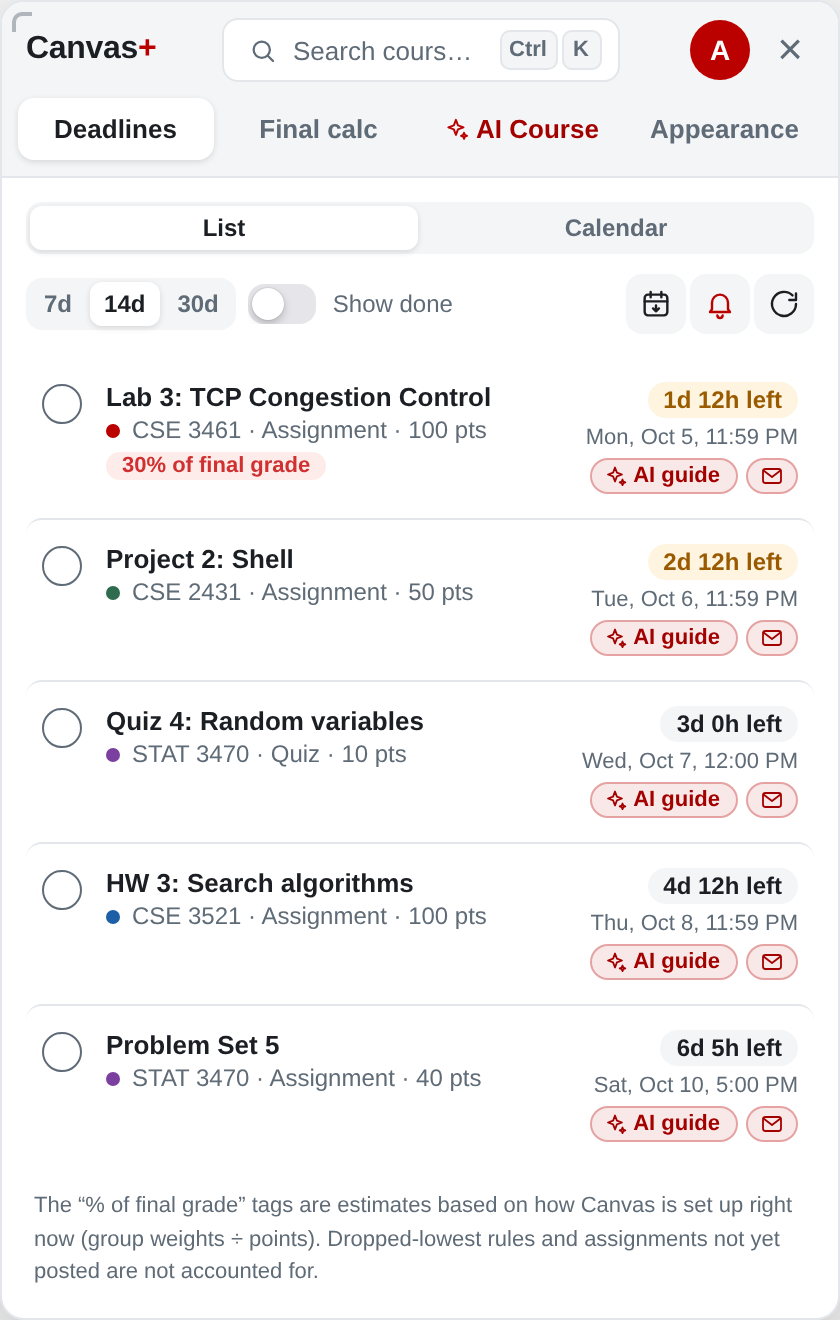
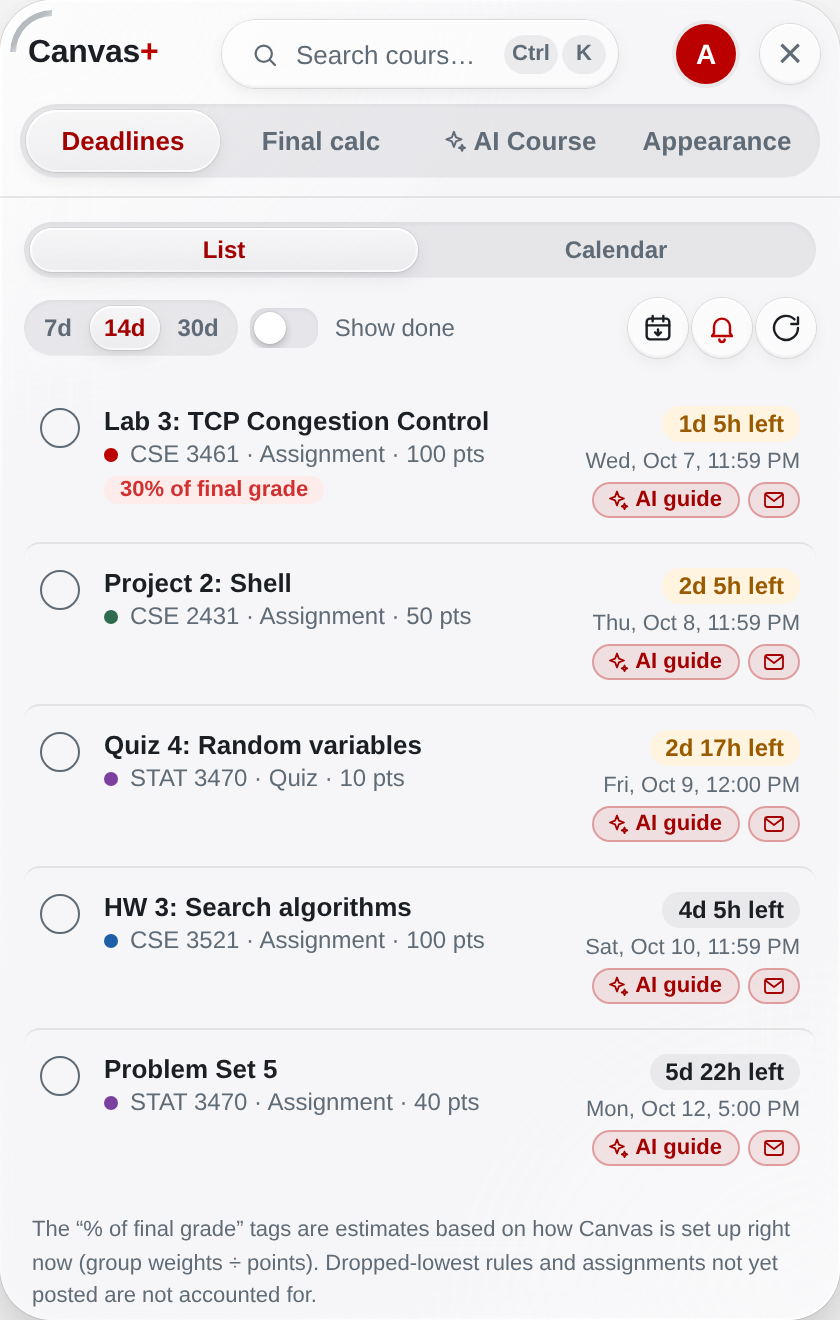
Update website and screenshots

diff --git a/site.js b/site.js
@@ -58,7 +58,7 @@
     { t: 'Project proposal', c: 'CSE 3521', k: ['Assignment', '作业'], p: 20, h: 215.6 },
     { t: 'Problem Set 5', c: 'STAT 3470', k: ['Assignment', '作业'], p: 40, h: 290 }
   ];
-  var done = {}, days = 14, showDone = false;
+  var done = {}, days = 14, showDone = false, view = 'list';
   function left(ms) {
     var over = ms < 0, s = Math.abs(ms) / 1000, d = Math.floor(s / 86400), h = Math.floor(s % 86400 / 3600), m = Math.floor(s % 3600 / 60);
     var v = d ? (zh() ? d + ' 天 ' + h + ' 小时' : d + 'd ' + h + 'h') : (zh() ? h + ' 小时 ' + m + ' 分' : h + 'h ' + m + 'm');
@@ -81,11 +81,20 @@
         '<div class="p-rt"><span class="p-cd ' + cls + '">' + left(ms) + '</span><span class="p-dt">' + when(start + x.h * 3600e3) + '</span>' +
         '<span class="p-acts"><button class="p-aig" data-act="ai">' + ic('spark') + L('AI guide', 'AI 拆解') + '</button><span class="p-mail">' + ic('mail') + '</span></span></div></div>';
     }).join('');
-    return '<div class="p-seg"><button class="on">' + L('List', '列表') + '</button><button>' + L('Calendar', '日历') + '</button></div>' +
+    var cal = '';
+    if (view === 'cal') {
+      var t0 = new Date(start); t0.setHours(0, 0, 0, 0); var first = new Date(t0.getTime() - t0.getDay() * 864e5);
+      cal = '<div class="p-calg">' + (zh() ? '日一二三四五六' : 'SMTWTFS').split('').map(function (d) { return '<b>' + d + '</b>'; }).join('') +
+        Array.from({ length: 28 }, function (_, k) {
+          var day = new Date(first.getTime() + k * 864e5), hit = DL.filter(function (x) { var due = new Date(start + x.h * 3600e3); return due.toDateString() === day.toDateString(); })[0];
+          return '<span class="p-cd2' + (day.toDateString() === t0.toDateString() ? ' today' : '') + '">' + day.getDate() + (hit ? '<i style="background:' + col(hit.c) + '"></i>' : '') + '</span>';
+        }).join('') + '</div>';
+    }
+    return '<div class="p-seg"><button data-act="view" data-v="list" class="' + (view === 'list' ? 'on' : '') + '">' + L('List', '列表') + '</button><button data-act="view" data-v="cal" class="' + (view === 'cal' ? 'on' : '') + '">' + L('Calendar', '日历') + '</button></div>' +
       '<div class="p-filters"><div class="p-seg">' + [7, 14, 30].map(function (d) { return '<button data-act="days" data-d="' + d + '" class="' + (d === days ? 'on' : '') + '">' + d + L('d', ' 天') + '</button>'; }).join('') + '</div>' +
       '<span class="p-tog" data-act="showdone"><button class="p-sw' + (showDone ? ' on' : '') + '" aria-label="show done"></button>' + L('Show done', '显示已完成') + '</span>' +
       '<span class="p-ib"><span>' + ic('cal') + '</span><span>' + ic('bell') + '</span><span>' + ic('refresh') + '</span></span></div>' +
-      '<div class="p-list">' + rows + '</div>';
+      (view === 'cal' ? cal : '<div class="p-list">' + rows + '</div>');
   }
 
   // ---- Final calc: grade, class standing, what you need on the final ----
@@ -145,7 +154,7 @@
   var aiShown = 0, aiTimer = null;
   function paneAI() {
     var g = G[zh() ? 'zh' : 'en'];
-    return '<div class="p-back"><a data-act="back">' + ic('back', 2.4) + L('Back', '返回') + '</a><span class="p-badge">' + ic('spark') + L('Canvas+ AI guide', 'Canvas+ AI 拆解') + '</span></div>' +
+    return '<div class="p-back"><a data-act="back" aria-label="' + L('Back', '返回') + '" title="' + L('Back', '返回') + '">' + ic('back', 2.6) + '</a><span class="p-badge">' + ic('spark') + L('Canvas+ AI guide', 'Canvas+ AI 拆解') + '</span></div>' +
       '<p class="p-h">Lab 2: Shell implementation</p><div class="p-st-sub">CSE 2431 · ' + L('due in 5 h · 10% of your grade', '5 小时后截止 · 占总成绩 10%') + '</div>' +
       '<div class="p-tldr">' + g.tldr + '</div>' +
       '<div class="p-st-sub">' + L('Estimated time: ', '预计用时：') + '<b style="color:var(--p-fg)">' + g.time + '</b></div>' +
@@ -156,7 +165,7 @@
       '<div class="p-fine">' + L('Explains the steps — never writes the answer for you.', '只讲思路和步骤，不替你写答案。') + '</div>';
   }
   function runAI() {
-    clearTimeout(aiTimer); aiShown = 0; draw();
+    clearTimeout(aiTimer); aiShown = 0; redrawPane(2);   // only the AI pane: a full redraw would cut the tab pill's spring short
     (function next() { if (aiShown >= 5) return; aiShown++; var s = $$('.p-step', dm)[aiShown - 1]; if (s) s.classList.add('in'); aiTimer = setTimeout(next, reduce ? 0 : 600); })();
   }
 
@@ -193,11 +202,17 @@
     ind.style.width = b.offsetWidth + 'px'; ind.style.transform = 'translateX(' + b.offsetLeft + 'px)';
     if (instant) { ind.offsetWidth; ind.style.transition = ''; }
   }
-  function show(i) {
+  // Switching tabs: the pill lifts for a moment and springs onto the new tab (like the extension since 1.3).
+  function show(i, fromDrag) {
     var prev = cur; cur = i;
-    var b = $$('.p-tab', dm), p = $$('.p-pane', dm);
+    var b = $$('.p-tab', dm), p = $$('.p-pane', dm), ind = $('.p-ind', dm);
     b.forEach(function (x, k) { x.classList.toggle('on', k === i); }); p.forEach(function (x, k) { x.classList.toggle('on', k === i); });
-    placeInd();
+    if (ind && !reduce && (prev !== i || fromDrag)) {
+      ind.style.transition = ''; ind.classList.add('lift', 'landing'); ind.offsetWidth;
+      placeInd();
+      setTimeout(function () { ind.classList.remove('lift'); }, fromDrag ? 16 : 150);   // a tap: lifted for a moment, then lands with a bounce
+      clearTimeout(ind._lt); ind._lt = setTimeout(function () { ind.classList.remove('landing'); }, 600);
+    } else placeInd();
     if (i === 2 && prev !== 2) runAI();
   }
   // Only the panes that change are redrawn (keeps the sliding tab and fades smooth).
@@ -209,6 +224,7 @@
     var a = t.dataset.act;
     if (a === 'ck') { done[t.dataset.i] = !done[t.dataset.i]; redrawPane(0); }
     else if (a === 'days') { days = +t.dataset.d; redrawPane(0); }
+    else if (a === 'view') { view = t.dataset.v; redrawPane(0); }
     else if (a === 'showdone') { showDone = !showDone; redrawPane(0); }
     else if (a === 'ai') show(2);
     else if (a === 'back') show(0);
@@ -219,8 +235,119 @@
     else if (a === 'pal') { pal = +t.dataset.k; redrawPane(3); redrawPane(0); redrawPane(1); }
   });
   dm.addEventListener('pointerdown', function () { touched = true; });
+
+  // ---- press and drag the tab bar or a switcher: a clear glass lens follows the pointer ----
+  // Characters under the lens are red, the rest grey; let go and it springs onto the nearest option.
+  var drag = null, landUntil = 0;
+  function chars(el) {
+    if (el._ch) return el._ch;
+    var out = [];
+    (function walk(n) {
+      [].slice.call(n.childNodes).forEach(function (c) {
+        if (c.nodeType === 3) {
+          if (!c.nodeValue.trim()) return;
+          var w = document.createElement('span'); w.className = 'lw';
+          Array.from(c.nodeValue).forEach(function (ch) {
+            if (/\s/.test(ch)) { w.appendChild(document.createTextNode(ch)); return; }
+            var sp = document.createElement('span'); sp.className = 'lc'; sp.textContent = ch; w.appendChild(sp); out.push(sp);
+          });
+          c.parentNode.replaceChild(w, c);
+        } else if (c.nodeType === 1 && c.tagName.toLowerCase() !== 'svg' && !c.classList.contains('rd')) walk(c);
+      });
+    })(el);
+    el._ch = out; el._ic = [].slice.call(el.querySelectorAll('svg'));
+    return out;
+  }
+  function paint(lens, items) {
+    var r = lens.getBoundingClientRect();
+    var inside = function (n) { var b = n.getBoundingClientRect(), m = b.left + b.width / 2; return m >= r.left && m <= r.right; };
+    items.forEach(function (el) {
+      chars(el).forEach(function (c) { c.classList.toggle('in', inside(c)); });
+      el._ic.forEach(function (s) { s.classList.toggle('in', inside(s)); });
+    });
+  }
+  // A switcher option springs from where the pill was to the new one (the pane is redrawn, so a lens is drawn on top).
+  function landSeg(act, val, from) {
+    if (reduce) return;
+    var btn = dm.querySelector('[data-act="' + act + '"][data-' + (act === 'days' ? 'd' : 'v') + '="' + val + '"]'); if (!btn) return;
+    var bar = btn.parentNode, lens = document.createElement('span');
+    lens.className = 'p-lens landing';
+    lens.style.cssText = 'top:' + btn.offsetTop + 'px;height:' + btn.offsetHeight + 'px;width:' + btn.offsetWidth + 'px;transform:translateX(' + btn.offsetLeft + 'px)';
+    bar.appendChild(lens); bar.classList.add('landing');
+    landUntil = Date.now() + 560;
+    var end = function () { lens.remove(); bar.classList.remove('landing'); };
+    try {
+      lens.animate([{ transform: 'translateX(' + from.x + 'px)', width: from.w + 'px', scale: '1.1 1.28' }, { transform: 'translateX(' + btn.offsetLeft + 'px)', width: btn.offsetWidth + 'px', scale: '1' }],
+        { duration: 520, easing: 'cubic-bezier(.34,1.45,.64,1)' }).onfinish = end;
+    } catch (e) { end(); }
+  }
+  dm.addEventListener('pointerdown', function (e) {
+    if (e.button !== 0 || drag) return;
+    var bar = e.target.closest('.p-tabs, .p-seg'); if (!bar) return;
+    var isTabs = bar.classList.contains('p-tabs');
+    var items = $$(isTabs ? '.p-tab' : 'button', bar);
+    if (!isTabs && !items.every(function (b) { return b.dataset.act; })) return;
+    var on = items.filter(function (b) { return b.classList.contains('on'); })[0]; if (!on) return;
+    var bx = bar.getBoundingClientRect().left + bar.clientLeft, px = e.clientX - bx, ox = on.offsetLeft, w = on.offsetWidth;
+    var d = drag = { active: false, x: ox, grab: px >= ox && px <= ox + w ? px - ox : w / 2, best: null, pressed: e.target.closest('button') };
+    var move = function (ev) {
+      if (drag !== d) return;
+      if (!d.active) {
+        if (Math.abs(ev.clientX - e.clientX) < 5) return;
+        d.active = true;
+        try { bar.setPointerCapture(e.pointerId); } catch (er) {}
+        bar.classList.add('dragging');
+        if (isTabs) { d.lens = $('.p-ind', dm); d.lens.classList.remove('landing'); }
+        else {
+          d.lens = document.createElement('span'); d.lens.className = 'p-lens';
+          d.lens.style.cssText = 'top:' + on.offsetTop + 'px;height:' + on.offsetHeight + 'px;width:' + w + 'px;transform:translateX(' + ox + 'px)';
+          bar.appendChild(d.lens);
+        }
+        d.lens.style.transition = 'scale .32s cubic-bezier(.34,1.56,.64,1), background .2s';
+        d.lens.offsetWidth; d.lens.classList.add('lift');
+      }
+      ev.preventDefault();
+      var a = items[0], z = items[items.length - 1], min = a.offsetLeft, max = z.offsetLeft + z.offsetWidth - w;
+      var x = ev.clientX - bx - d.grab;
+      if (x < min) x = min - Math.sqrt(min - x) * 2; else if (x > max) x = max + Math.sqrt(x - max) * 2;
+      d.x = x; d.lens.style.transform = 'translateX(' + x + 'px)'; d.lens.style.width = w + 'px';
+      var c = x + w / 2, bd = 1e9;
+      items.forEach(function (b) {
+        var dist = Math.abs(b.offsetLeft + b.offsetWidth / 2 - c), k = Math.max(0, 1 - dist / (b.offsetWidth * .9));
+        b.style.scale = String(1 + (isTabs ? .1 : .08) * k);
+        if (dist < bd) { bd = dist; d.best = b; }
+      });
+      paint(d.lens, items);
+    };
+    var up = function () {
+      bar.removeEventListener('pointermove', move); bar.removeEventListener('pointerup', up); bar.removeEventListener('pointercancel', up); bar.removeEventListener('lostpointercapture', up);
+      if (drag !== d) return;
+      drag = null;
+      if (!d.active) {                       // a plain click on another option: it springs over after the click
+        var p = d.pressed;
+        if (!isTabs && p && p !== on && items.indexOf(p) >= 0) setTimeout(function () { landSeg(p.dataset.act, p.dataset.d || p.dataset.v, { x: ox, w: w }); }, 0);
+        return;
+      }
+      bar.classList.remove('dragging');
+      items.forEach(function (b) { b.style.scale = ''; (b._ch || []).forEach(function (c) { c.classList.remove('in'); }); (b._ic || []).forEach(function (s) { s.classList.remove('in'); }); });
+      var eat = function (ev) { ev.stopPropagation(); ev.preventDefault(); };
+      bar.addEventListener('click', eat, true);
+      var target = d.best || on;
+      setTimeout(function () {
+        bar.removeEventListener('click', eat, true);
+        if (isTabs) { touched = true; show(items.indexOf(target), true); }
+        else {
+          d.lens.remove();
+          var act = target.dataset.act, val = target.dataset.d || target.dataset.v;
+          if (target !== on) target.click(); else redrawPane(0);
+          landSeg(act, val, { x: d.x, w: w });
+        }
+      }, 0);
+    };
+    bar.addEventListener('pointermove', move); bar.addEventListener('pointerup', up); bar.addEventListener('pointercancel', up); bar.addEventListener('lostpointercapture', up);
+  });
   if ('ResizeObserver' in window) new ResizeObserver(function () { placeInd(true); }).observe(dm);
-  setInterval(function () { if (cur === 0) redrawPane(0); }, 1000);
+  setInterval(function () { if (cur === 0 && !drag && Date.now() > landUntil) redrawPane(0); }, 1000);
   if (!reduce) setInterval(function () { if (!touched && document.visibilityState === 'visible') show((cur + 1) % 4); }, 5600);
 
   // Notification toasts

diff --git a/index.html b/index.html
@@ -252,6 +252,84 @@
   .hint { margin-top: 18px; justify-content: center; font-size: 12px; color: var(--dim); white-space: nowrap; display: flex; gap: 6px; align-items: center; }
   .hint svg { width: 14px; height: 14px; }
 
+  /* ===== Liquid glass, like the Canvas+ panel since 1.3 ===== */
+  .demo { --g-ctl: rgba(255,255,255,.55); --g-on: rgba(255,255,255,.94); --g-track: rgba(118,118,128,.12); --g-rim: rgba(255,255,255,.95); --g-hair: rgba(0,0,0,.1); --g-low: rgba(0,0,0,.05);
+    --p-bg2: rgba(118,118,128,.1); --p-line: rgba(60,60,67,.11);
+    border-radius: 26px; background: rgba(248,249,252,.9); -webkit-backdrop-filter: blur(30px) saturate(1.8); backdrop-filter: blur(30px) saturate(1.8);
+    box-shadow: 0 40px 100px -20px var(--sh), 0 0 0 .5px var(--g-hair), inset 0 1px .5px rgba(255,255,255,.9), inset 0 0 22px rgba(255,255,255,.2); }
+  .demo.dark { --g-ctl: rgba(255,255,255,.08); --g-on: rgba(255,255,255,.2); --g-track: rgba(255,255,255,.07); --g-rim: rgba(255,255,255,.28); --g-hair: rgba(0,0,0,.45); --g-low: rgba(0,0,0,.25);
+    --p-bg2: rgba(255,255,255,.07); --p-line: rgba(255,255,255,.08); background: rgba(30,32,38,.9);
+    box-shadow: 0 40px 100px -20px var(--sh), 0 0 0 .5px rgba(255,255,255,.12), inset 0 1px .5px rgba(255,255,255,.12), inset 0 0 22px rgba(255,255,255,.04); }
+  .p-head { background: transparent; border-bottom: .5px solid var(--p-line); padding: 12px 12px 9px; }
+  .p-search { border: 0; border-radius: 999px; background: var(--g-ctl); padding: 7px 8px 7px 12px;
+    box-shadow: inset 0 1px .5px var(--g-rim), inset 0 -1px 1px var(--g-low), 0 0 0 .5px var(--g-hair), 0 2px 8px rgba(0,0,0,.06); }
+  .p-kbd i { border: 0; border-radius: 999px; padding: 3px 5px; background: var(--g-track); }
+  .p-x { width: 28px; height: 28px; border-radius: 999px; display: grid; place-items: center; padding: 0; font-size: 17px; background: var(--g-ctl);
+    box-shadow: inset 0 1px .5px var(--g-rim), inset 0 -1px 1px var(--g-low), 0 0 0 .5px var(--g-hair), 0 2px 8px rgba(0,0,0,.06); }
+  .p-tabs, .p-seg { background: var(--g-track); border-radius: 999px; padding: 3px; gap: 2px; box-shadow: inset 0 1px 2px var(--g-low); touch-action: pan-y; user-select: none; -webkit-user-select: none; }
+  .p-tabs { margin-top: 10px; }
+  .p-seg { position: relative; }
+  .p-ind { top: 3px; bottom: 3px; border-radius: 999px; background: var(--g-on);
+    box-shadow: inset 0 1px .5px var(--g-rim), inset 0 -1px 1px var(--g-low), 0 0 0 .5px var(--g-hair), 0 3px 10px rgba(0,0,0,.1);
+    transition: transform .3s var(--ease), width .3s var(--ease), scale .3s var(--ease), background .35s; }
+  .p-tab, .p-seg button { position: relative; z-index: 1; border-radius: 999px; transition: scale .18s var(--ease), color .18s; }
+  .p-seg button.on { background: var(--g-on); box-shadow: inset 0 1px .5px var(--g-rim), 0 0 0 .5px var(--g-hair), 0 2px 6px rgba(0,0,0,.09); }
+  /* only the current option is red (the AI tab no longer is, unless it's open) */
+  .p-tab.ai { color: var(--p-muted) !important; }
+  .p-tab.on, .p-tab.ai.on, .p-seg button.on { color: var(--p-acc) !important; }
+  /* the drag lens: press and slide, the pill lifts into clear glass and follows the pointer */
+  .p-lens { position: absolute; left: 0; z-index: 2; pointer-events: none; border-radius: 999px; background: var(--g-on);
+    box-shadow: inset 0 1px .5px var(--g-rim), 0 0 0 .5px var(--g-hair), 0 2px 6px rgba(0,0,0,.09); }
+  .p-lens.landing:not(.lift) { z-index: 0; }
+  .p-seg.landing button.on, .p-seg.dragging button.on { background: transparent; box-shadow: none; }
+  .p-ind.lift, .p-lens.lift { z-index: 2; background: rgba(255,255,255,.16) !important;
+    box-shadow: inset 0 0 0 1px rgba(255,255,255,.9), inset 0 1.5px 5px rgba(255,255,255,.65), inset 0 -2px 6px rgba(0,0,0,.05), 0 8px 22px rgba(0,0,0,.14), 0 1px 4px rgba(0,0,0,.08) !important; }
+  .p-ind.lift { scale: 1.12 1.32; }
+  .p-lens.lift { scale: 1.1 1.28; }
+  .demo.dark .p-ind.lift, .demo.dark .p-lens.lift { background: rgba(255,255,255,.08) !important;
+    box-shadow: inset 0 0 0 1px rgba(255,255,255,.35), inset 0 1.5px 5px rgba(255,255,255,.14), 0 8px 22px rgba(0,0,0,.45) !important; }
+  .p-ind.landing { transition: transform .45s cubic-bezier(.34,1.45,.64,1), width .45s cubic-bezier(.34,1.45,.64,1), scale .4s cubic-bezier(.34,1.56,.64,1), background .2s; }
+  .dragging, .dragging button { cursor: grabbing !important; }
+  .p-tabs.dragging .p-tab, .p-seg.dragging button { color: var(--p-muted) !important; transition: none !important; }
+  .p-tabs.dragging .lc.in, .p-seg.dragging .lc.in, .p-tabs.dragging svg.in { color: var(--p-acc) !important; }
+  .lw { display: inline; }
+  /* round glass buttons */
+  .p-ib span { border: 0; border-radius: 999px; background: var(--g-ctl);
+    box-shadow: inset 0 1px .5px var(--g-rim), inset 0 -1px 1px var(--g-low), 0 0 0 .5px var(--g-hair), 0 2px 8px rgba(0,0,0,.06); }
+  .p-back { margin-bottom: 10px; }
+  .p-back a { width: 32px; height: 32px; border-radius: 999px; justify-content: center; gap: 0; color: var(--p-acc);
+    background: linear-gradient(180deg, rgba(255,255,255,.98), rgba(244,244,248,.92));
+    box-shadow: inset 0 1px .5px #fff, inset 0 -1px 1px rgba(0,0,0,.04), 0 0 0 .5px rgba(0,0,0,.14), 0 2px 8px rgba(0,0,0,.07); transition: scale .2s cubic-bezier(.34,1.56,.64,1); }
+  .p-back a:active { scale: .92; }
+  .p-back a svg { width: 18px; height: 18px; margin-left: -1px; }
+  .demo.dark .p-back a { background: linear-gradient(180deg, rgba(255,255,255,.14), rgba(255,255,255,.07));
+    box-shadow: inset 0 1px .5px rgba(255,255,255,.22), inset 0 -1px 1px rgba(0,0,0,.2), 0 0 0 .5px rgba(255,255,255,.12), 0 2px 8px rgba(0,0,0,.3); }
+  .p-sw { background: rgba(120,120,128,.24); }
+  .p-sw.on { background: #34c759; }
+  .p-card, .p-group { border: 0; background: var(--p-bg2); }
+  .p-step, .p-cs, .p-tile { background: var(--p-bg2); }
+  .p-need { background: rgba(250,250,252,.9); border-top: .5px solid var(--p-line); }
+  .demo.dark .p-need { background: rgba(34,36,42,.94); }
+  .p-it { border-bottom: .5px solid var(--p-line); }
+  /* calendar view (List / Calendar switch) */
+  .p-calg { display: grid; grid-template-columns: repeat(7, 1fr); gap: 4px; margin-top: 10px; }
+  .p-calg b { font-size: 10.5px; color: var(--p-muted); text-align: center; font-weight: 700; }
+  .p-cd2 { position: relative; height: 44px; border-radius: 10px; background: var(--p-bg2); font-size: 11px; font-weight: 700; padding: 4px 5px; color: var(--p-fg); }
+  .p-cd2.today { box-shadow: inset 0 0 0 1.5px var(--p-acc); color: var(--p-acc); }
+  .p-cd2 i { position: absolute; left: 5px; right: 5px; bottom: 5px; height: 4px; border-radius: 99px; }
+  /* current option: see-through glass capsule with a fine highlight around the edge */
+  .demo { --pill: linear-gradient(180deg, rgba(255,255,255,.6), rgba(255,255,255,.24));
+    --pill-shadow: inset 0 1px 0 rgba(255,255,255,.95), inset 0 -1px 0 rgba(255,255,255,.3), 0 0 0 .5px rgba(0,0,0,.07), 0 1px 2px rgba(0,0,0,.05), 0 3px 10px rgba(0,0,0,.07);
+    --pill-rim: linear-gradient(160deg, rgba(255,255,255,1), rgba(255,255,255,.25) 35%, rgba(255,255,255,.08) 60%, rgba(255,255,255,.75)); }
+  .demo.dark { --pill: linear-gradient(180deg, rgba(255,255,255,.2), rgba(255,255,255,.08));
+    --pill-shadow: inset 0 1px 0 rgba(255,255,255,.3), inset 0 -1px 0 rgba(255,255,255,.06), 0 0 0 .5px rgba(0,0,0,.45), 0 3px 10px rgba(0,0,0,.28);
+    --pill-rim: linear-gradient(160deg, rgba(255,255,255,.55), rgba(255,255,255,.1) 35%, rgba(255,255,255,.03) 60%, rgba(255,255,255,.3)); }
+  .p-ind, .p-seg button.on, .p-lens { background: var(--pill); box-shadow: var(--pill-shadow); }
+  .p-ind::after, .p-seg button.on::after, .p-lens::after { content: ""; position: absolute; inset: 0; border-radius: inherit; padding: 1px; pointer-events: none; background: var(--pill-rim);
+    -webkit-mask: linear-gradient(#000 0 0) content-box, linear-gradient(#000 0 0); -webkit-mask-composite: xor; mask: linear-gradient(#000 0 0) content-box exclude, linear-gradient(#000 0 0); }
+  .p-seg.landing button.on::after, .p-seg.dragging button.on::after { display: none; }
+  @media (prefers-reduced-motion: reduce) { .p-ind.lift, .p-lens.lift { scale: 1; } .p-ind.landing { transition: none; } }
+
 
   /* schools */
   .schools { padding: 8px 0 34px; text-align: center; }
@@ -361,7 +439,7 @@
   .scard ul { list-style: none; margin: 0; padding: 0; display: grid; gap: 10px; font-size: 14.5px; color: var(--fg); }
   .scard li { display: flex; gap: 10px; }
   .scard li span:first-child { flex: none; width: 20px; height: 20px; border-radius: 6px; display: grid; place-items: center; font-weight: 800; color: var(--c); background: color-mix(in srgb, var(--c) 14%, transparent); }
-  .scard-shot { align-self: end; height: 470px; border-radius: 18px 18px 0 0; overflow: hidden; box-shadow: 0 -10px 40px -10px var(--sh), 0 0 0 1px rgba(var(--tint),.1); }
+  .scard-shot { align-self: end; height: 470px; border-radius: 26px 26px 0 0; overflow: hidden; box-shadow: 0 -10px 40px -10px var(--sh), 0 0 0 1px rgba(var(--tint),.1); }
   .scard-shot img { display: block; width: 100%; height: 100%; object-fit: cover; object-position: top; }
   .rules { margin-top: 26px; font-size: 13.5px; color: var(--muted); border-left: 2px solid var(--red); padding-left: 14px; }
   .rules b { color: var(--fg); }
@@ -656,6 +734,6 @@
     <span><span class="en">Made by</span><span class="zh">作者</span> <a href="https://www.baowenliu.com" style="color:var(--fg)">Baowen Liu</a> · <a href="mailto:support@getcanvasplus.com">support@getcanvasplus.com</a> · <a href="privacy.html"><span class="en">Privacy</span><span class="zh">隐私说明</span></a></span></div>
   <p class="legal">© 2026 Canvas+ · <span class="en">Canvas+ is an independent project, not affiliated with or endorsed by Instructure or any school. Canvas is a trademark of Instructure, Inc. School names only show where Canvas+ works with the school’s Canvas; they don’t imply any partnership or endorsement.</span><span class="zh">Canvas+ 是独立项目，与 Instructure 和任何学校均无关联，也未获得其认可。Canvas 是 Instructure, Inc. 的商标。页面上的学校名称仅表示 Canvas+ 可以在该校的 Canvas 上使用，不代表任何合作或认可。</span></p>
 </div></footer>
-<script src="site.js?v=563581f7"></script>
+<script src="site.js?v=05145e10"></script>
 </body>
 </html>

diff --git a/demo.html b/demo.html
@@ -150,9 +150,86 @@
   .p-pal.on { border-color: var(--p-acc); box-shadow: 0 0 0 1px var(--p-acc) inset; }
   .p-pal i { width: 9px; height: 9px; border-radius: 50%; }
 
+  /* ===== Liquid glass, like the Canvas+ panel since 1.3 ===== */
+  .demo { --g-ctl: rgba(255,255,255,.55); --g-on: rgba(255,255,255,.94); --g-track: rgba(118,118,128,.12); --g-rim: rgba(255,255,255,.95); --g-hair: rgba(0,0,0,.1); --g-low: rgba(0,0,0,.05);
+    --p-bg2: rgba(118,118,128,.1); --p-line: rgba(60,60,67,.11);
+    border-radius: 26px; background: rgba(248,249,252,.9); -webkit-backdrop-filter: blur(30px) saturate(1.8); backdrop-filter: blur(30px) saturate(1.8);
+    box-shadow: 0 40px 100px -20px var(--sh), 0 0 0 .5px var(--g-hair), inset 0 1px .5px rgba(255,255,255,.9), inset 0 0 22px rgba(255,255,255,.2); }
+  .demo.dark { --g-ctl: rgba(255,255,255,.08); --g-on: rgba(255,255,255,.2); --g-track: rgba(255,255,255,.07); --g-rim: rgba(255,255,255,.28); --g-hair: rgba(0,0,0,.45); --g-low: rgba(0,0,0,.25);
+    --p-bg2: rgba(255,255,255,.07); --p-line: rgba(255,255,255,.08); background: rgba(30,32,38,.9);
+    box-shadow: 0 40px 100px -20px var(--sh), 0 0 0 .5px rgba(255,255,255,.12), inset 0 1px .5px rgba(255,255,255,.12), inset 0 0 22px rgba(255,255,255,.04); }
+  .p-head { background: transparent; border-bottom: .5px solid var(--p-line); padding: 12px 12px 9px; }
+  .p-search { border: 0; border-radius: 999px; background: var(--g-ctl); padding: 7px 8px 7px 12px;
+    box-shadow: inset 0 1px .5px var(--g-rim), inset 0 -1px 1px var(--g-low), 0 0 0 .5px var(--g-hair), 0 2px 8px rgba(0,0,0,.06); }
+  .p-kbd i { border: 0; border-radius: 999px; padding: 3px 5px; background: var(--g-track); }
+  .p-x { width: 28px; height: 28px; border-radius: 999px; display: grid; place-items: center; padding: 0; font-size: 17px; background: var(--g-ctl);
+    box-shadow: inset 0 1px .5px var(--g-rim), inset 0 -1px 1px var(--g-low), 0 0 0 .5px var(--g-hair), 0 2px 8px rgba(0,0,0,.06); }
+  .p-tabs, .p-seg { background: var(--g-track); border-radius: 999px; padding: 3px; gap: 2px; box-shadow: inset 0 1px 2px var(--g-low); touch-action: pan-y; user-select: none; -webkit-user-select: none; }
+  .p-tabs { margin-top: 10px; }
+  .p-seg { position: relative; }
+  .p-ind { top: 3px; bottom: 3px; border-radius: 999px; background: var(--g-on);
+    box-shadow: inset 0 1px .5px var(--g-rim), inset 0 -1px 1px var(--g-low), 0 0 0 .5px var(--g-hair), 0 3px 10px rgba(0,0,0,.1);
+    transition: transform .3s var(--ease), width .3s var(--ease), scale .3s var(--ease), background .35s; }
+  .p-tab, .p-seg button { position: relative; z-index: 1; border-radius: 999px; transition: scale .18s var(--ease), color .18s; }
+  .p-seg button.on { background: var(--g-on); box-shadow: inset 0 1px .5px var(--g-rim), 0 0 0 .5px var(--g-hair), 0 2px 6px rgba(0,0,0,.09); }
+  /* only the current option is red (the AI tab no longer is, unless it's open) */
+  .p-tab.ai { color: var(--p-muted) !important; }
+  .p-tab.on, .p-tab.ai.on, .p-seg button.on { color: var(--p-acc) !important; }
+  /* the drag lens: press and slide, the pill lifts into clear glass and follows the pointer */
+  .p-lens { position: absolute; left: 0; z-index: 2; pointer-events: none; border-radius: 999px; background: var(--g-on);
+    box-shadow: inset 0 1px .5px var(--g-rim), 0 0 0 .5px var(--g-hair), 0 2px 6px rgba(0,0,0,.09); }
+  .p-lens.landing:not(.lift) { z-index: 0; }
+  .p-seg.landing button.on, .p-seg.dragging button.on { background: transparent; box-shadow: none; }
+  .p-ind.lift, .p-lens.lift { z-index: 2; background: rgba(255,255,255,.16) !important;
+    box-shadow: inset 0 0 0 1px rgba(255,255,255,.9), inset 0 1.5px 5px rgba(255,255,255,.65), inset 0 -2px 6px rgba(0,0,0,.05), 0 8px 22px rgba(0,0,0,.14), 0 1px 4px rgba(0,0,0,.08) !important; }
+  .p-ind.lift { scale: 1.12 1.32; }
+  .p-lens.lift { scale: 1.1 1.28; }
+  .demo.dark .p-ind.lift, .demo.dark .p-lens.lift { background: rgba(255,255,255,.08) !important;
+    box-shadow: inset 0 0 0 1px rgba(255,255,255,.35), inset 0 1.5px 5px rgba(255,255,255,.14), 0 8px 22px rgba(0,0,0,.45) !important; }
+  .p-ind.landing { transition: transform .45s cubic-bezier(.34,1.45,.64,1), width .45s cubic-bezier(.34,1.45,.64,1), scale .4s cubic-bezier(.34,1.56,.64,1), background .2s; }
+  .dragging, .dragging button { cursor: grabbing !important; }
+  .p-tabs.dragging .p-tab, .p-seg.dragging button { color: var(--p-muted) !important; transition: none !important; }
+  .p-tabs.dragging .lc.in, .p-seg.dragging .lc.in, .p-tabs.dragging svg.in { color: var(--p-acc) !important; }
+  .lw { display: inline; }
+  /* round glass buttons */
+  .p-ib span { border: 0; border-radius: 999px; background: var(--g-ctl);
+    box-shadow: inset 0 1px .5px var(--g-rim), inset 0 -1px 1px var(--g-low), 0 0 0 .5px var(--g-hair), 0 2px 8px rgba(0,0,0,.06); }
+  .p-back { margin-bottom: 10px; }
+  .p-back a { width: 32px; height: 32px; border-radius: 999px; justify-content: center; gap: 0; color: var(--p-acc);
+    background: linear-gradient(180deg, rgba(255,255,255,.98), rgba(244,244,248,.92));
+    box-shadow: inset 0 1px .5px #fff, inset 0 -1px 1px rgba(0,0,0,.04), 0 0 0 .5px rgba(0,0,0,.14), 0 2px 8px rgba(0,0,0,.07); transition: scale .2s cubic-bezier(.34,1.56,.64,1); }
+  .p-back a:active { scale: .92; }
+  .p-back a svg { width: 18px; height: 18px; margin-left: -1px; }
+  .demo.dark .p-back a { background: linear-gradient(180deg, rgba(255,255,255,.14), rgba(255,255,255,.07));
+    box-shadow: inset 0 1px .5px rgba(255,255,255,.22), inset 0 -1px 1px rgba(0,0,0,.2), 0 0 0 .5px rgba(255,255,255,.12), 0 2px 8px rgba(0,0,0,.3); }
+  .p-sw { background: rgba(120,120,128,.24); }
+  .p-sw.on { background: #34c759; }
+  .p-card, .p-group { border: 0; background: var(--p-bg2); }
+  .p-step, .p-cs, .p-tile { background: var(--p-bg2); }
+  .p-need { background: rgba(250,250,252,.9); border-top: .5px solid var(--p-line); }
+  .demo.dark .p-need { background: rgba(34,36,42,.94); }
+  .p-it { border-bottom: .5px solid var(--p-line); }
+  /* calendar view (List / Calendar switch) */
+  .p-calg { display: grid; grid-template-columns: repeat(7, 1fr); gap: 4px; margin-top: 10px; }
+  .p-calg b { font-size: 10.5px; color: var(--p-muted); text-align: center; font-weight: 700; }
+  .p-cd2 { position: relative; height: 44px; border-radius: 10px; background: var(--p-bg2); font-size: 11px; font-weight: 700; padding: 4px 5px; color: var(--p-fg); }
+  .p-cd2.today { box-shadow: inset 0 0 0 1.5px var(--p-acc); color: var(--p-acc); }
+  .p-cd2 i { position: absolute; left: 5px; right: 5px; bottom: 5px; height: 4px; border-radius: 99px; }
+  /* current option: see-through glass capsule with a fine highlight around the edge */
+  .demo { --pill: linear-gradient(180deg, rgba(255,255,255,.6), rgba(255,255,255,.24));
+    --pill-shadow: inset 0 1px 0 rgba(255,255,255,.95), inset 0 -1px 0 rgba(255,255,255,.3), 0 0 0 .5px rgba(0,0,0,.07), 0 1px 2px rgba(0,0,0,.05), 0 3px 10px rgba(0,0,0,.07);
+    --pill-rim: linear-gradient(160deg, rgba(255,255,255,1), rgba(255,255,255,.25) 35%, rgba(255,255,255,.08) 60%, rgba(255,255,255,.75)); }
+  .demo.dark { --pill: linear-gradient(180deg, rgba(255,255,255,.2), rgba(255,255,255,.08));
+    --pill-shadow: inset 0 1px 0 rgba(255,255,255,.3), inset 0 -1px 0 rgba(255,255,255,.06), 0 0 0 .5px rgba(0,0,0,.45), 0 3px 10px rgba(0,0,0,.28);
+    --pill-rim: linear-gradient(160deg, rgba(255,255,255,.55), rgba(255,255,255,.1) 35%, rgba(255,255,255,.03) 60%, rgba(255,255,255,.3)); }
+  .p-ind, .p-seg button.on, .p-lens { background: var(--pill); box-shadow: var(--pill-shadow); }
+  .p-ind::after, .p-seg button.on::after, .p-lens::after { content: ""; position: absolute; inset: 0; border-radius: inherit; padding: 1px; pointer-events: none; background: var(--pill-rim);
+    -webkit-mask: linear-gradient(#000 0 0) content-box, linear-gradient(#000 0 0); -webkit-mask-composite: xor; mask: linear-gradient(#000 0 0) content-box exclude, linear-gradient(#000 0 0); }
+  .p-seg.landing button.on::after, .p-seg.dragging button.on::after { display: none; }
+  @media (prefers-reduced-motion: reduce) { .p-ind.lift, .p-lens.lift { scale: 1; } .p-ind.landing { transition: none; } }
   /* Fits a card on another page */
-  .demo { box-shadow: 0 0 0 1px rgba(0,0,0,.08); }
-  .demo.dark { box-shadow: 0 0 0 1px rgba(255,255,255,.1); }
+  .demo { box-shadow: 0 0 0 .5px rgba(0,0,0,.12), inset 0 1px .5px rgba(255,255,255,.9); }
+  .demo.dark { box-shadow: 0 0 0 .5px rgba(255,255,255,.12), inset 0 1px .5px rgba(255,255,255,.12); }
   .p-body { height: 410px; }
   .coach { display: none; }
 </style>
@@ -160,6 +237,6 @@
 <body>
 <div class="demo" id="dm" role="group" aria-label="Canvas+ demo"></div>
 <script>window.CP_EMBED = true;</script>
-<script src="site.js?v=563581f7"></script>
+<script src="site.js?v=05145e10"></script>
 </body>
 </html>
